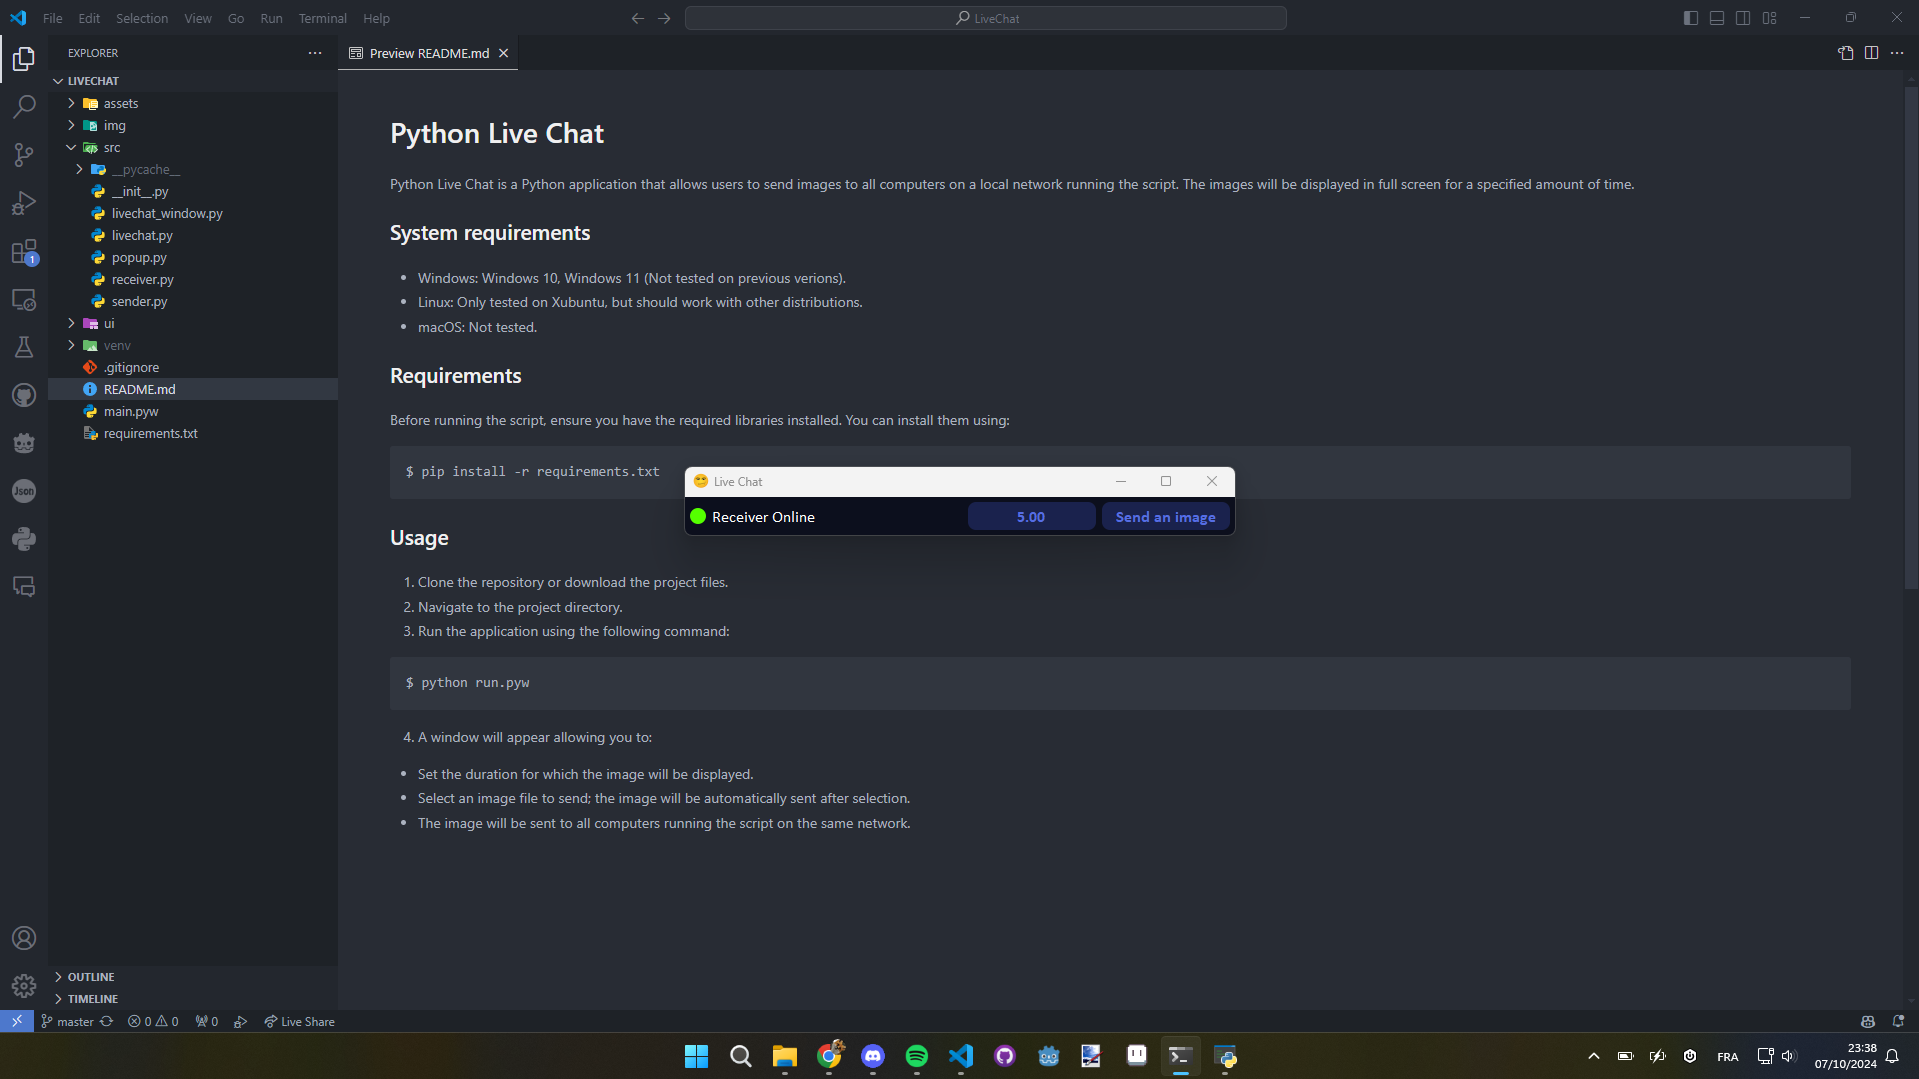
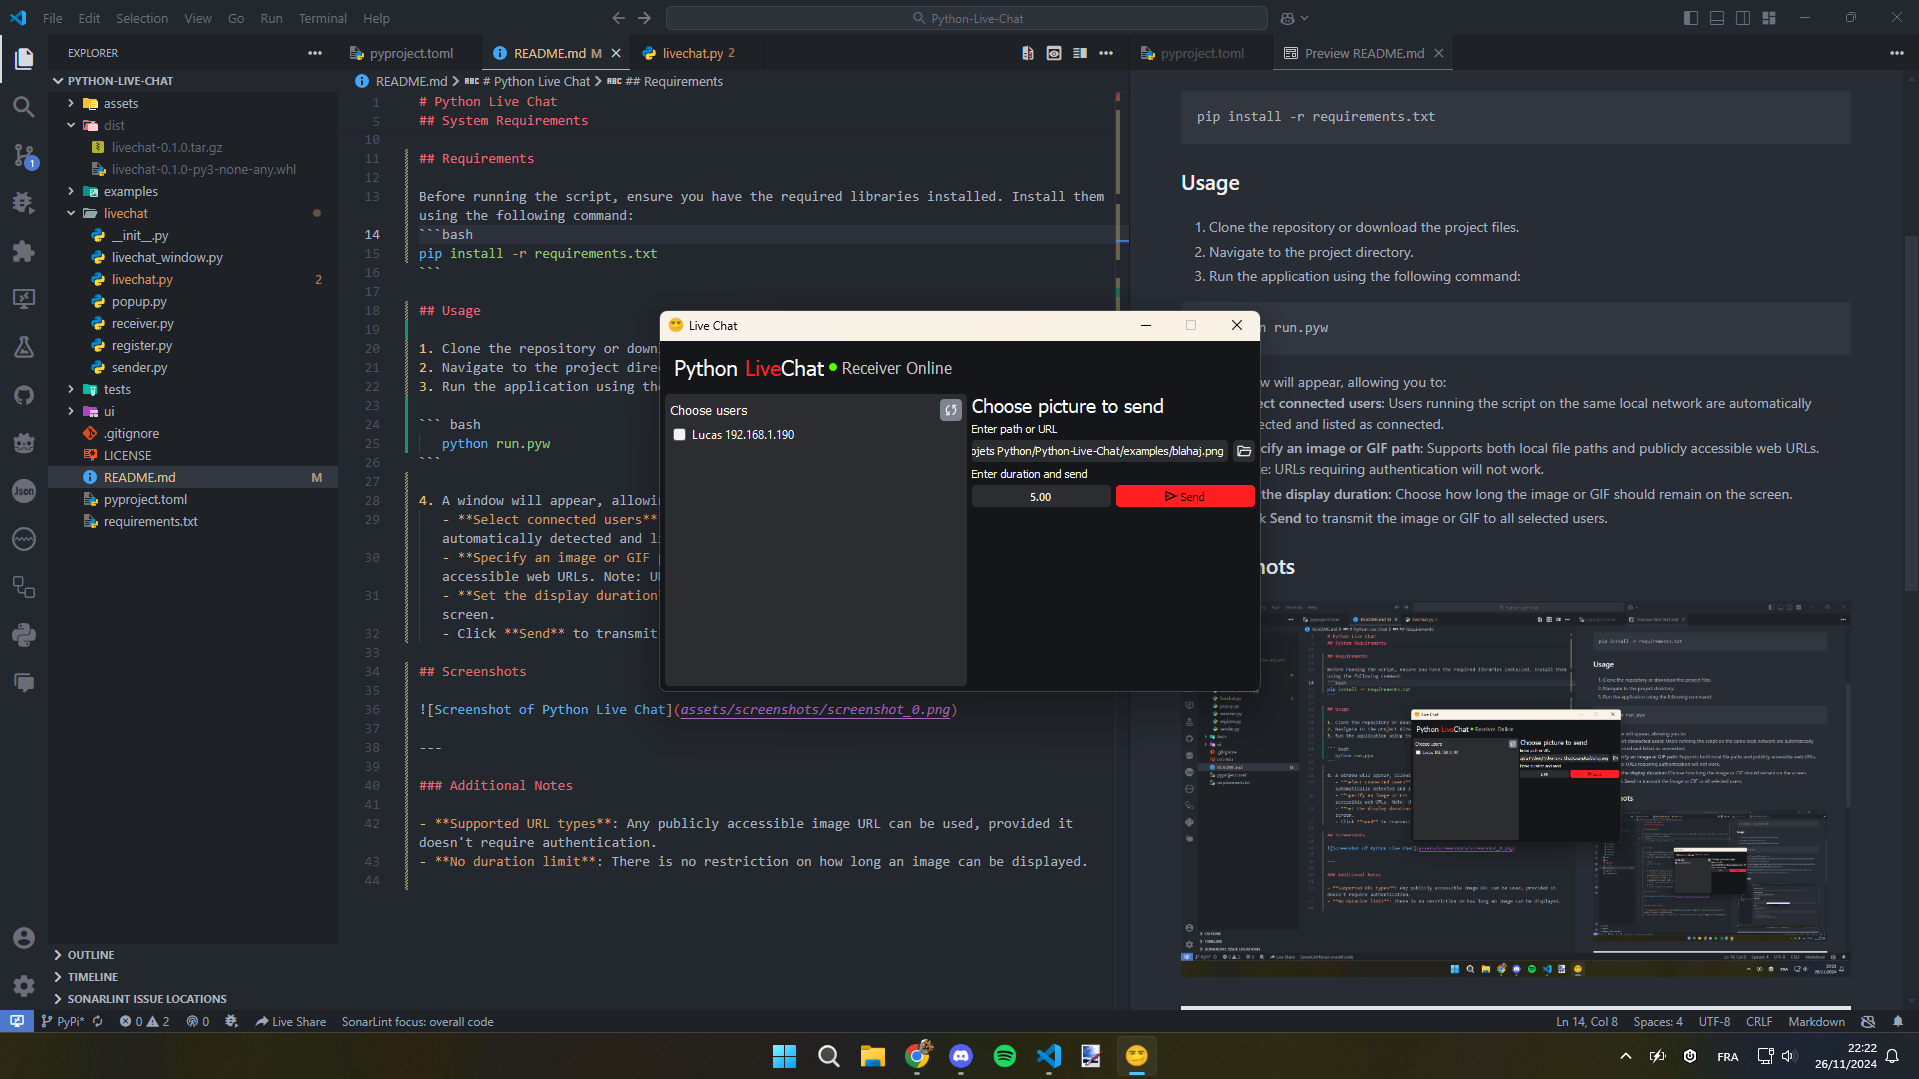
Updated readme

diff --git a/README.md b/README.md
@@ -1,28 +1,43 @@
-# Python Live Chat
-Python Live Chat is a Python application that allows users to send images to all computers on a local network running the script. The images will be displayed in full screen for a specified amount of time.
+# Python Live Chat  
 
-## System requirements
-* Windows: Windows 10, Windows 11 (Not tested on previous verions).
-* Linux: Only tested on Xubuntu, but should work with other distributions.
-* macOS: Not tested.
+Python Live Chat is a Python application that allows users to send images and GIFs to selected computers on a local network running the script. The images are displayed in full screen for a specified duration.  
 
-## Requirements
-Before running the script, ensure you have the required libraries installed. You can install them using:
-```
-$ pip install -r requirements.txt
+## System Requirements  
+
+- **Windows**: Windows 10, Windows 11 (not tested on earlier versions).  
+- **Linux**: Tested on Xubuntu but should work on other distributions.  
+- **macOS**: Not tested.  
+
+## Requirements  
+
+Before running the script, ensure you have the required libraries installed. Install them using the following command:  
+```bash
+pip install -r requirements.txt  
 ```
 
-## Usage
-1. Clone the repository or download the project files.
-2. Navigate to the project directory.
-3. Run the application using the following command:
-```
-$ python run.pyw
-```
-4. A window will appear allowing you to:
-* Set the duration for which the image will be displayed.
-* Select an image file to send; the image will be automatically sent after selection.
-* The image will be sent to all computers running the script on the same network.
+## Usage  
 
-## Screenshots
-![image](assets/screenshots/screenshot_0.png)
+1. Clone the repository or download the project files.  
+2. Navigate to the project directory.  
+3. Run the application using the following command:  
+
+``` bash
+   python run.pyw  
+```
+
+4. A window will appear, allowing you to:  
+   - **Select connected users**: Users running the script on the same local network are automatically detected and listed as connected.  
+   - **Specify an image or GIF path**: Supports both local file paths and publicly accessible web URLs. Note: URLs requiring authentication will not work.  
+   - **Set the display duration**: Choose how long the image or GIF should remain on the screen.  
+   - Click **Send** to transmit the image or GIF to all selected users.  
+
+## Screenshots  
+
+![Screenshot of Python Live Chat](assets/screenshots/screenshot_0.png)  
+
+---
+
+### Additional Notes  
+
+- **Supported URL types**: Any publicly accessible image URL can be used, provided it doesn't require authentication.  
+- **No duration limit**: There is no restriction on how long an image can be displayed.  
